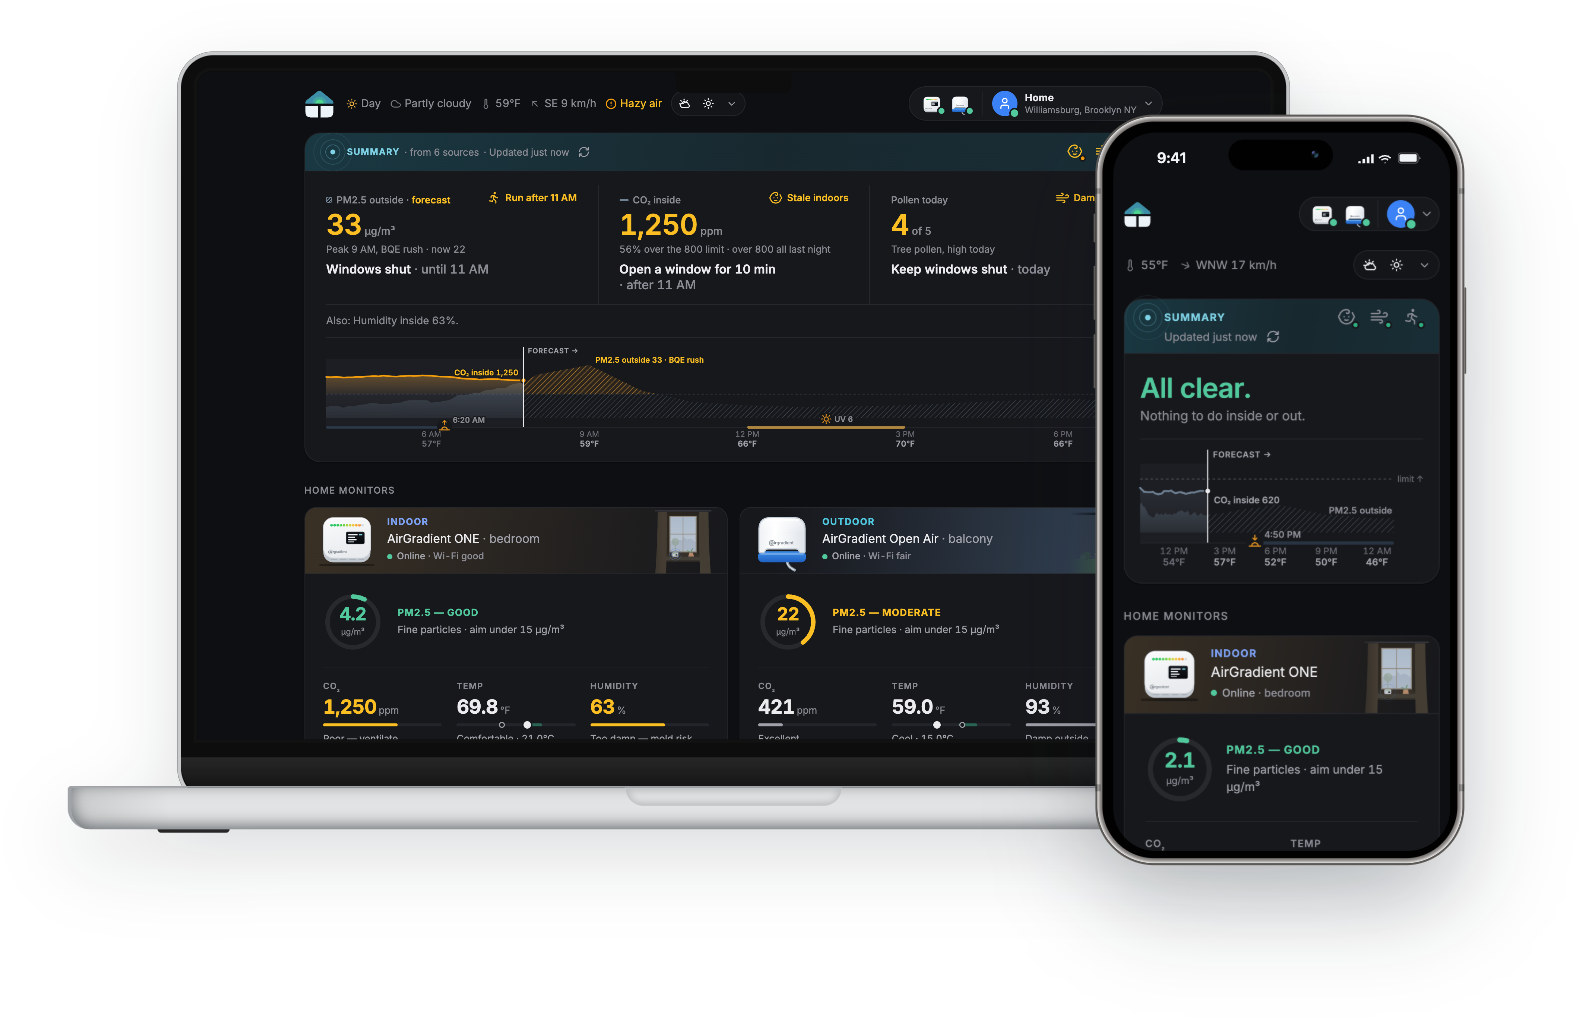
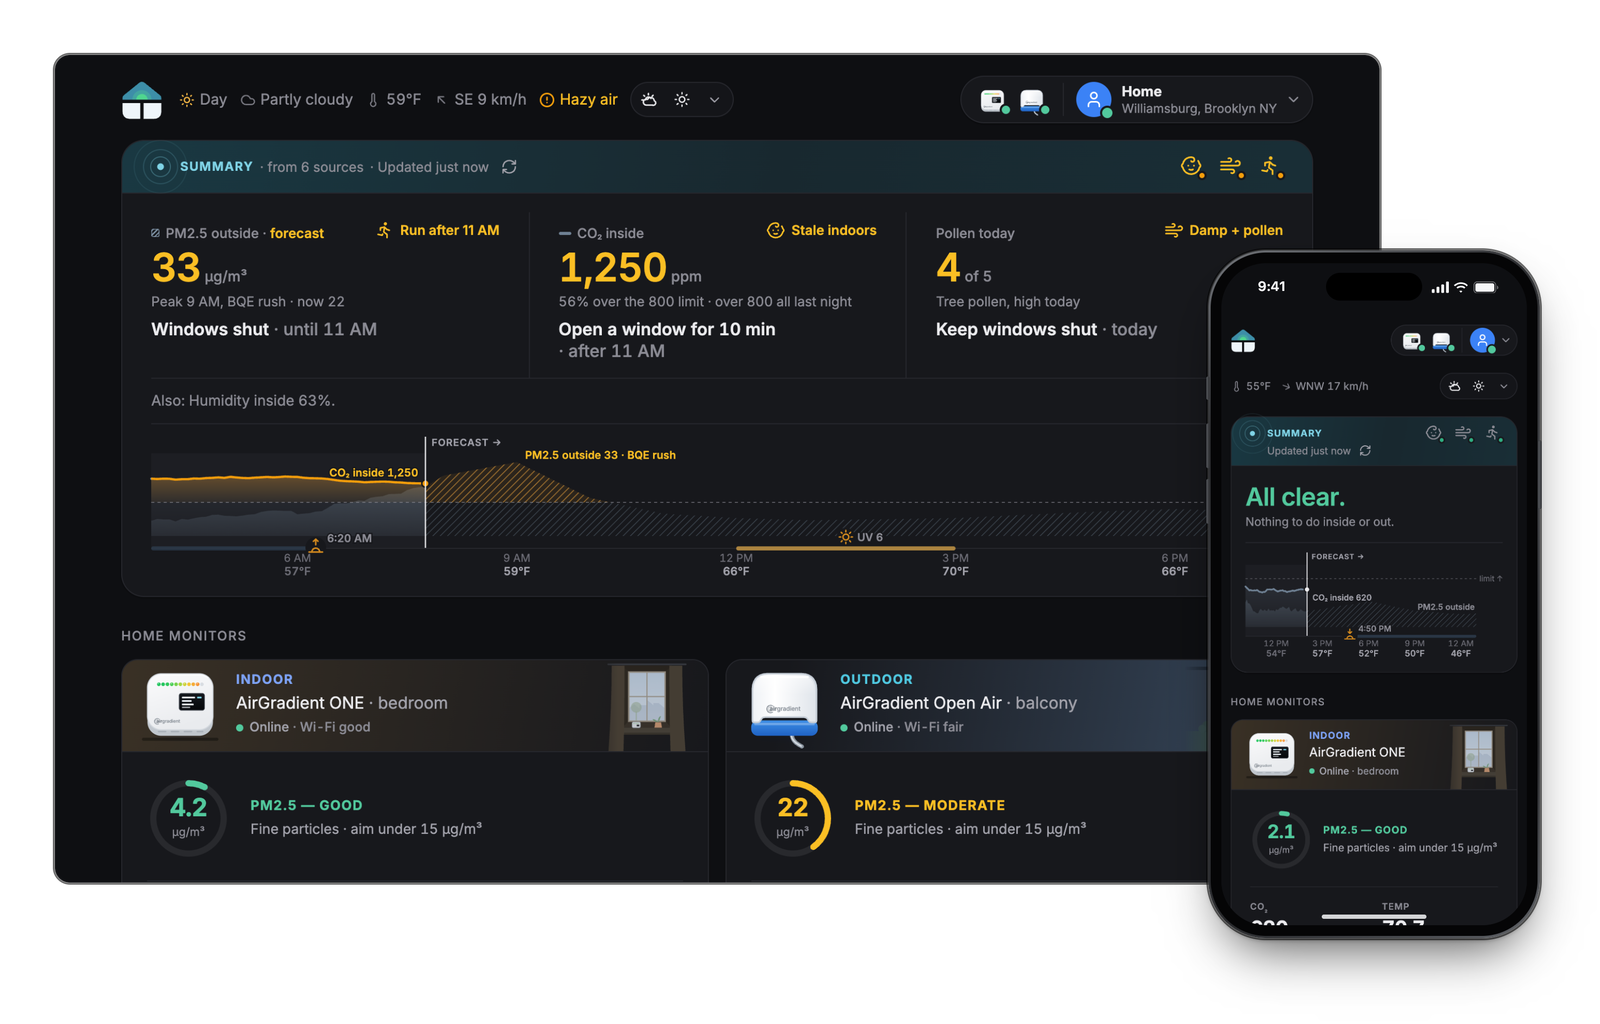
docs(readme): add light and dark dashboard previews
Show the page and phone in the README hero, with a preview matching the GitHub theme.

diff --git a/scripts/hero.html b/scripts/hero.html
@@ -1,71 +1,111 @@
 <!doctype html>
-<!-- The README's hero image: a MacBook Pro with the desktop's first screen (Morning rush), an iPhone 14 Pro in front with the phone's (All clear).
-     scripts/screenshot.sh opens it with ?theme=light|dark&desk=<png>&phone=<png>&bg=<hex> and shoots it on a transparent background.
-     Device frames: Devices.css (MIT, github.com/picturepan2/devices.css), vendored in scripts/vendor. -->
+<!-- The README's hero image: the desktop page's first screen (Morning rush) in a rounded panel with a soft shadow, no window
+     chrome, and a current iPhone over its lower right corner with the phone's first screen (All clear).
+     scripts/screenshot.sh opens it with ?theme=light|dark&desk=<png>&phone=<png>&bg=<hex>[&look=cropped] and shoots it on a
+     transparent background. look=cropped: lighter shadows, for the hero on a white background, cropped tight. Standalone: nothing fetched beyond the two captures. -->
 <html lang="en">
 <head>
 <meta charset="utf-8">
 <title>Hero</title>
-<link rel="stylesheet" href="vendor/devices.min.css">
 <style>
   html, body { margin: 0; background: transparent; }
-  :root { --ink: #10181f; }
-  :root.dark { --ink: #f2f5f8; }
-  /* 72 px of room on every side, more than any shadow reaches, so every shadow fades to nothing inside the stage;
-     screenshot.sh then trims to the last non-transparent pixel */
-  .stage { position: relative; width: 920px; height: 640px; }
-  /* the laptop behind, at its native Devices.css size (screen 600 × 375, the desktop's 16:10) */
-  .laptop { position: absolute; left: 72px; top: 72px; filter: drop-shadow(0 16px 20px rgba(10, 20, 30, .14)); }
-  .laptop .device-screen { object-position: top left; }
-  /* the phone in front, over the laptop's lower right, at the same zoom as the laptop's screen
-     (390 px of page in 187 px, 1440 in 600): the wrapper places it, zoom sizes it and keeps it sharp */
-  .phone-at { position: absolute; z-index: 2; left: 643px; top: 107px; width: 205.44px; height: 416.64px; filter: drop-shadow(0 22px 26px rgba(10, 20, 30, .26)); }
-  .phone { zoom: .48; }
-  .phone .device-screen { overflow: hidden; background: var(--bg, #f4f6f8); }
-  .phone .device-screen img { width: 390px; height: auto; display: block; }
-  /* iOS status bar, so the page starts below the Dynamic Island as it does on a real phone */
-  .status { height: 54px; display: flex !important; align-items: center; justify-content: space-between; padding: 6px 34px 0 50px;
-    font: 600 17px/1 -apple-system, "SF Pro Text", system-ui, sans-serif; color: var(--ink); letter-spacing: -.01em; }
-  .status .icons { display: flex !important; gap: 6px; align-items: center; }
+  :root {
+    --ink: #0b0c0e;                  /* the phone's status bar and home indicator */
+    --ring: rgba(16, 24, 40, .09);   /* the hairline around the panel */
+    --sh1: rgba(16, 24, 40, .10);    /* the panel's close shadow */
+    --sh2: rgba(16, 24, 40, .16);    /* the panel's far shadow */
+    --ph0: rgba(0, 0, 0, .10);       /* the phone's contact shadow, close and far */
+    --ph1: rgba(10, 14, 20, .30);
+    --ph2: rgba(10, 14, 20, .30);
+  }
+  :root.dark {
+    --ink: #f5f6f8;
+    --ring: rgba(255, 255, 255, .11);
+    --sh1: rgba(0, 0, 0, .30);
+    --sh2: rgba(0, 0, 0, .40);
+    --ph0: rgba(0, 0, 0, .30);
+    --ph1: rgba(0, 0, 0, .50);
+    --ph2: rgba(0, 0, 0, .50);
+  }
+  /* the dark hero sits on GitHub's dark page (#0d1117), the same darkness as the app's dark page: a dark shadow can't
+     separate them, so a lit edge and a faint neutral light around it do, fading out inside the stage's room */
+  :root.dark .win { box-shadow: 0 0 0 1px rgba(255, 255, 255, .20), 0 0 0 2px rgba(0, 0, 0, .6), 0 0 60px -12px rgba(255, 255, 255, .10); }
+  :root.dark .phone { box-shadow: 0 0 0 1px rgba(255, 255, 255, .16), 0 0 0 2px rgba(0, 0, 0, .6), 0 2px 4px var(--ph0), 0 24px 48px -16px rgba(0, 0, 0, .7); }
+  /* the cropped hero sits on white with about 30 px below it: shadows half as dark and short enough to fade out inside that */
+  :root.cropped .win { box-shadow: 0 0 0 1px var(--ring), 0 6px 16px -6px rgba(16, 24, 40, .05), 0 14px 24px -10px rgba(16, 24, 40, .07); }
+  :root.cropped .phone { box-shadow: 0 1px 3px rgba(0, 0, 0, .06), 0 8px 16px -4px rgba(10, 14, 20, .14), 0 16px 24px -10px rgba(10, 14, 20, .10); }
+  .stage { position: relative; }
+  /* the panel: the page's own first screen, rounded, with 100 px of room on the top and left (more than its shadow reaches) */
+  .win { position: absolute; left: 100px; top: 100px; width: 1240px; border-radius: 14px; overflow: hidden;
+    box-shadow: 0 0 0 1px var(--ring), 0 14px 32px -12px var(--sh1), 0 36px 64px -28px var(--sh2); }
+  .win img { display: block; width: 100%; height: auto; }
+
+  /* the phone: an iPhone 15 Pro-class body, the page at 0.7277 of its 393 × 852 pt screen (286 × 620) */
+  .phone { position: absolute; width: 310px; height: 644px; border-radius: 54px; padding: 2px; box-sizing: border-box;
+    background: linear-gradient(150deg, #74777c 0%, #2b2c2f 22%, #3d3f43 50%, #26272a 78%, #5d6065 100%);   /* the titanium edge */
+    box-shadow: 0 2px 4px var(--ph0), 0 20px 36px -12px var(--ph1), 0 40px 64px -28px var(--ph2); }
+  .bezel { width: 100%; height: 100%; border-radius: 52px; background: #050506; padding: 10px; box-sizing: border-box; }
+  .screen { position: relative; width: 286px; height: 620px; border-radius: 42px; overflow: hidden; background: var(--bg, #f8f9fb); }
+  .screen img { display: block; width: 286px; height: auto; }
+  .island { position: absolute; left: 50%; top: 9px; transform: translateX(-50%); width: 90px; height: 26px; border-radius: 13px; background: #000; z-index: 2; }
+  .home-ind { position: absolute; left: 50%; bottom: 6px; transform: translateX(-50%); width: 98px; height: 4px; border-radius: 2px; background: var(--ink); opacity: .85; z-index: 2; }
+  /* iOS status bar (59 pt at this scale), so the page starts below the Dynamic Island as it does on a real phone */
+  .status { height: 43px; display: flex; align-items: center; justify-content: space-between; padding: 2px 26px 0 34px; box-sizing: border-box;
+    font: 600 12.5px/1 -apple-system, "SF Pro Text", system-ui, sans-serif; color: var(--ink); letter-spacing: -.01em; }
+  .status .icons { display: flex; gap: 4.5px; align-items: center; }
   .status svg { display: block; fill: currentColor; }
+  /* side buttons: action, volume up and down on the left, power on the right; barely out of the edge */
+  .btn { position: absolute; width: 3px; border-radius: 2px; background: linear-gradient(90deg, #55585d, #2d2e31); }
+  .btn.l { left: -2px; } .btn.r { right: -2px; }
 </style>
 </head>
 <body>
-<div class="stage">
-  <div class="device device-macbook-pro laptop">
-    <div class="device-frame"><img class="device-screen" id="desk" alt=""></div>
-    <div class="device-stripe"></div>
-    <div class="device-header"></div>
-    <div class="device-sensors"></div>
-    <div class="device-btns"></div>
-    <div class="device-power"></div>
+<div class="stage" id="stage">
+  <div class="win" id="win"><img id="desk" alt=""></div>
+  <div class="phone" id="phone-body">
+    <div class="btn l" style="top:118px;height:22px"></div>
+    <div class="btn l" style="top:162px;height:42px"></div>
+    <div class="btn l" style="top:214px;height:42px"></div>
+    <div class="btn r" style="top:178px;height:64px"></div>
+    <div class="bezel"><div class="screen">
+      <div class="island"></div>
+      <div class="status"><span>9:41</span><span class="icons">
+        <svg width="16" height="11" viewBox="0 0 18 12" aria-hidden="true"><rect x="0" y="8" width="3" height="4" rx="1"/><rect x="5" y="5.5" width="3" height="6.5" rx="1"/><rect x="10" y="3" width="3" height="9" rx="1"/><rect x="15" y="0" width="3" height="12" rx="1"/></svg>
+        <svg width="14.5" height="11" viewBox="0 0 16 12" aria-hidden="true"><path d="M8 2.6c2.3 0 4.4.9 6 2.4l1.2-1.2A10.2 10.2 0 0 0 8 .9C5.2.9 2.7 2 .8 3.8L2 5c1.6-1.5 3.7-2.4 6-2.4Zm0 3.5c1.3 0 2.5.5 3.5 1.3l1.2-1.2A6.7 6.7 0 0 0 8 4.4c-1.8 0-3.4.7-4.7 1.8l1.2 1.2c1-.8 2.2-1.3 3.5-1.3Zm0 3.4c-.6 0-1.1.2-1.5.6L8 11.6l1.5-1.5c-.4-.4-.9-.6-1.5-.6Z"/></svg>
+        <svg width="24" height="11.5" viewBox="0 0 27 13" aria-hidden="true"><rect x=".5" y=".5" width="23" height="12" rx="3.5" fill="none" stroke="currentColor" stroke-opacity=".4"/><rect x="2" y="2" width="20" height="9" rx="2"/><path d="M25 4.5v4c.8-.3 1.3-1.1 1.3-2s-.5-1.7-1.3-2Z" fill-opacity=".45"/></svg>
+      </span></div>
+      <img id="phone" alt="">
+      <div class="home-ind"></div>
+    </div></div>
   </div>
-  <div class="phone-at"><div class="device device-iphone-14-pro device-black phone">
-    <div class="device-frame">
-      <div class="device-screen">
-        <div class="status"><span>9:41</span><span class="icons">
-          <svg width="18" height="12" viewBox="0 0 18 12" aria-hidden="true"><rect x="0" y="8" width="3" height="4" rx="1"/><rect x="5" y="5.5" width="3" height="6.5" rx="1"/><rect x="10" y="3" width="3" height="9" rx="1"/><rect x="15" y="0" width="3" height="12" rx="1"/></svg>
-          <svg width="16" height="12" viewBox="0 0 16 12" aria-hidden="true"><path d="M8 2.6c2.3 0 4.4.9 6 2.4l1.2-1.2A10.2 10.2 0 0 0 8 .9C5.2.9 2.7 2 .8 3.8L2 5c1.6-1.5 3.7-2.4 6-2.4Zm0 3.5c1.3 0 2.5.5 3.5 1.3l1.2-1.2A6.7 6.7 0 0 0 8 4.4c-1.8 0-3.4.7-4.7 1.8l1.2 1.2c1-.8 2.2-1.3 3.5-1.3Zm0 3.4c-.6 0-1.1.2-1.5.6L8 11.6l1.5-1.5c-.4-.4-.9-.6-1.5-.6Z"/></svg>
-          <svg width="27" height="13" viewBox="0 0 27 13" aria-hidden="true"><rect x=".5" y=".5" width="23" height="12" rx="3.5" fill="none" stroke="currentColor" stroke-opacity=".4"/><rect x="2" y="2" width="20" height="9" rx="2"/><path d="M25 4.5v4c.8-.3 1.3-1.1 1.3-2s-.5-1.7-1.3-2Z" fill-opacity=".45"/></svg>
-        </span></div>
-        <img id="phone" alt="">
-      </div>
-    </div>
-    <div class="device-stripe"></div>
-    <div class="device-header"></div>
-    <div class="device-sensors"></div>
-    <div class="device-btns"></div>
-    <div class="device-power"></div>
-  </div></div>
 </div>
 <script>
   const q = new URLSearchParams(location.search);
   if (q.get('theme') === 'dark') document.documentElement.classList.add('dark');
+  if (q.get('look') === 'cropped') document.documentElement.classList.add('cropped');
   if (q.get('bg')) document.documentElement.style.setProperty('--bg', q.get('bg'));
-  document.getElementById('desk').src = q.get('desk') || '';
-  document.getElementById('phone').src = q.get('phone') || '';
+  const desk = document.getElementById('desk'), phone = document.getElementById('phone');
+  desk.src = q.get('desk') || ''; phone.src = q.get('phone') || '';
+  const PAST_RIGHT = 150;   // px the phone's right edge sits past the panel's: enough to read as in front, not beside
+  const BELOW = 52;         // px the phone's bottom sits below the panel's, so it overlaps the corner
+  const PAD = 100;          // px of room right of the phone, more than its shadow reaches (the edges must stay transparent)
+  const PAD_BOTTOM = 150;   // px of room below the phone, where its shadow falls furthest
+  // place the phone once the panel's height (the desktop capture's) is known, then size the stage around both
+  let placed = false;
+  function place() {
+    const win = document.getElementById('win'), body = document.getElementById('phone-body');
+    const wr = win.offsetLeft + win.offsetWidth, wb = win.offsetTop + win.offsetHeight;
+    body.style.left = (wr + PAST_RIGHT - body.offsetWidth) + 'px';
+    body.style.top = (wb + BELOW - body.offsetHeight) + 'px';
+    const st = document.getElementById('stage');
+    st.style.width = (wr + PAST_RIGHT + PAD) + 'px';
+    st.style.height = (wb + BELOW + PAD_BOTTOM) + 'px';
+    placed = true;
+  }
+  desk.addEventListener('load', place);
   // scripts/screenshot.mjs waits for this instead of the dashboard's checks
-  window.__shotReady = () => [...document.images].every(i => i.complete && i.naturalWidth > 0) && document.fonts.status === 'loaded';
+  window.__shotReady = () => { if (desk.complete && desk.naturalWidth && !placed) place();
+    return placed && [...document.images].every(i => i.complete && i.naturalWidth > 0) && document.fonts.status === 'loaded'; };
 </script>
 </body>
 </html>

diff --git a/README.md b/README.md
@@ -5,7 +5,10 @@ An app for your AirGradient monitors that tells you what to do about your air: w
 **[Try the demo](https://homeair.app)** · [Installation](#installation) · [Features](#features) · [How it works](#how-it-works)
 
 <p align="center">
-  <img src="docs/hero-light.png" alt="Home Air on a laptop and a phone" width="800">
+  <picture>
+    <source media="(prefers-color-scheme: dark)" srcset="docs/hero-dark.png">
+    <img src="docs/hero-light.png" alt="Home Air's page next to its phone view" width="800">
+  </picture>
 </p>
 
 <sub>Screenshots from the demo, with sample data.</sub>
@@ -99,7 +102,7 @@ The app always uses the corrected value: for your monitors, the `pm02_corrected`
 - Pollen: [Google Pollen API](https://developers.google.com/maps/documentation/pollen) (optional, needs a key).
 - Wildfire smoke: NOAA's [Hazard Mapping System](https://www.ospo.noaa.gov/products/land/hms.html).
 - Map: [MapLibre](https://maplibre.org), with tiles from [OpenFreeMap](https://openfreemap.org) and map data from [OpenStreetMap](https://www.openstreetmap.org/copyright) contributors.
-- Device frames in the screenshot: [Devices.css](https://github.com/picturepan2/devices.css) (MIT, `scripts/vendor/`).
+- Device frame in the link-preview images: [Devices.css](https://github.com/picturepan2/devices.css) (MIT, `scripts/vendor/`).
 
 ## Contributing
 
